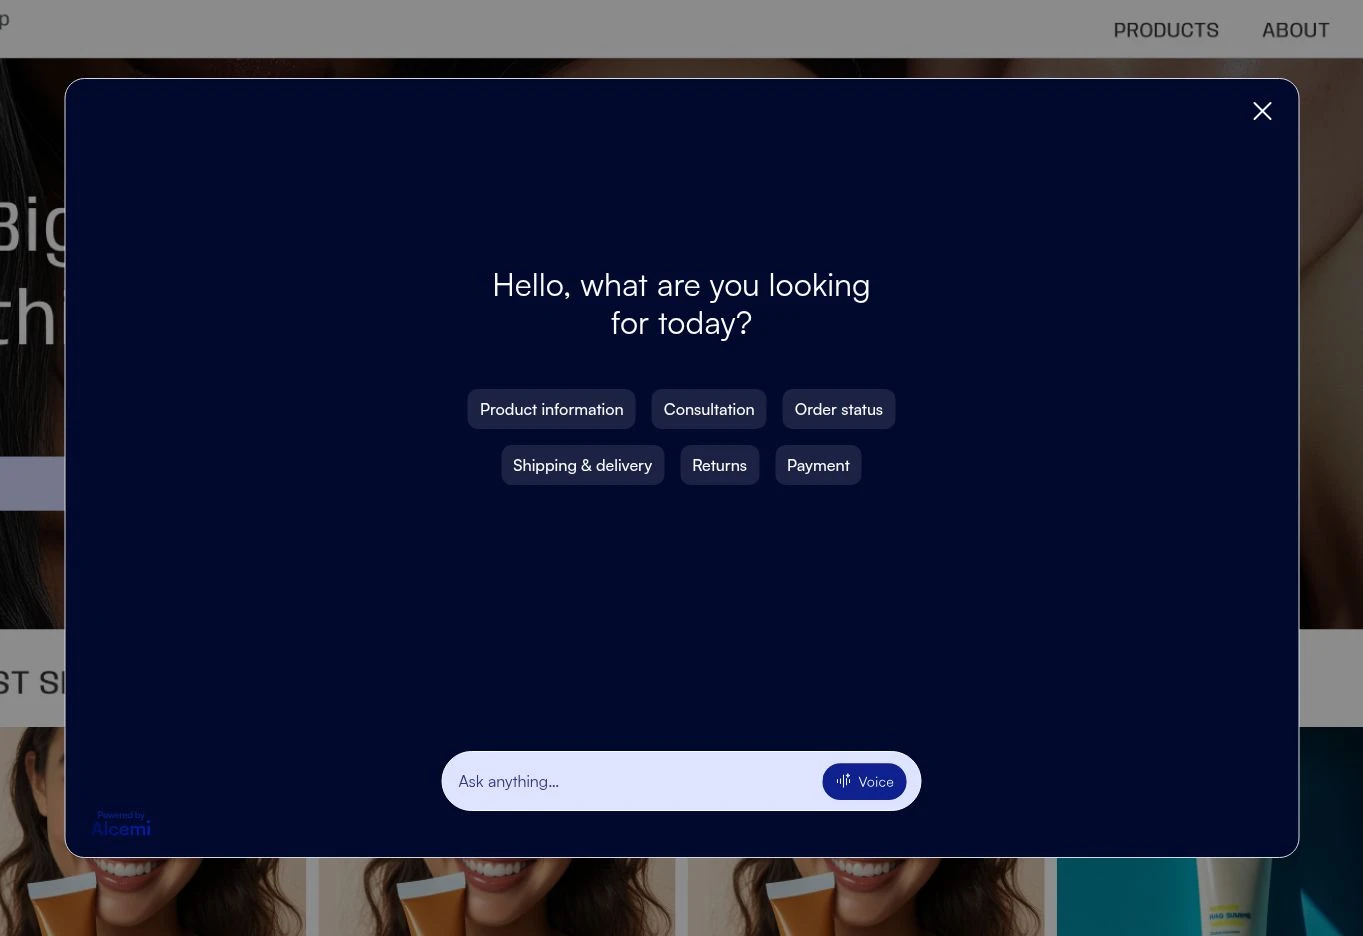
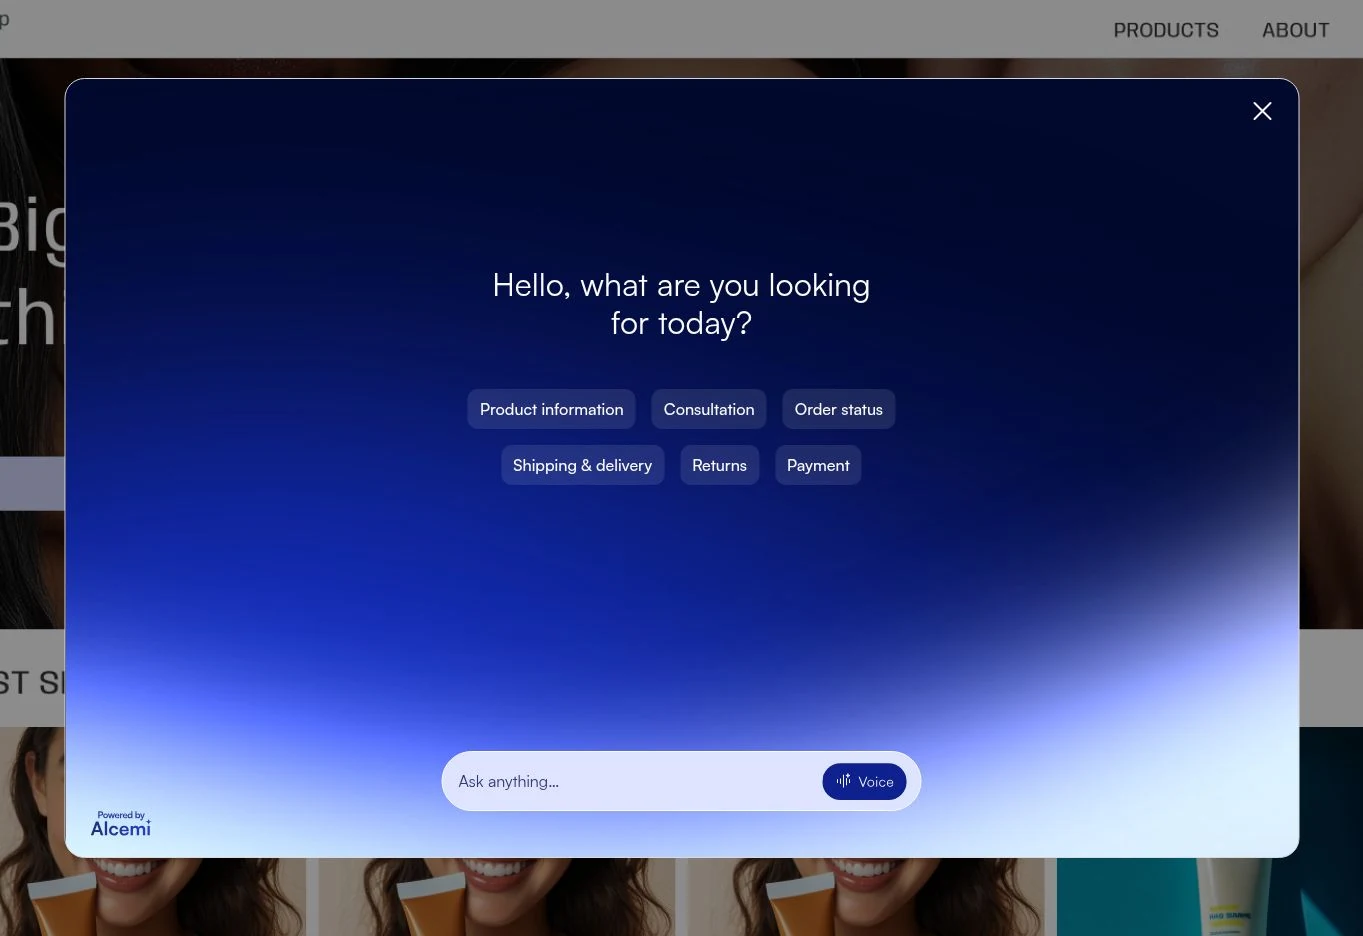
Replace portfolio popup with project pages and fix mobile hero navigation

diff --git a/src/styles/reference.css b/src/styles/reference.css
@@ -137,15 +137,6 @@ body:has(.nav-overlay.open) .site-footer :focus-visible { outline-color: white; 
 .pf-links a { text-decoration: underline; text-underline-offset: 4px; }
 .pf-card:hover { border-color: #111; }
 .pf-img { width: 100%; height: 100%; object-fit: cover; object-position: top; }
-.portfolio-dialog { position: fixed; inset: 0; width: min(1100px,94vw); max-height: 94svh; padding: 48px 24px 24px; background: #111; color: white; border: 0; overflow: auto; }
-.portfolio-dialog::backdrop { background: rgba(0,0,0,.85); }
-.portfolio-dialog figure { margin: 0; }
-.dialog-img { max-height: 70svh; width: 100%; object-fit: contain; }
-.portfolio-dialog figcaption { margin-top: 16px; text-align: center; }
-.pf-close { position: absolute; top: 4px; right: 8px; width: 40px; height: 40px; border: 0; background: transparent; color: white; font-size: 28px; cursor: pointer; }
-.dialog-controls { display: flex; align-items: center; justify-content: center; gap: 12px; margin-top: 20px; }
-.dialog-controls button { border: 1px solid #777; background: transparent; color: white; padding: 8px 14px; cursor: pointer; }
-.portfolio-dialog :focus-visible { outline-color: white; }
 .privacy-grid { max-width: 70ch; padding-left: 20px; }
 .privacy-body h2 { font-size: 24px; margin-top: 30px; }
 .privacy-body a { text-decoration: underline; }
@@ -235,10 +226,6 @@ body:has(.nav-overlay.open) .site-footer :focus-visible { outline-color: white; 
   .pf-card { aspect-ratio: 3 / 2; }
   .pf-details h2 { font-size: 26px; }
   .pf-links a { min-height: 44px; display: inline-flex; align-items: center; }
-  .portfolio-dialog { padding: 48px 16px 20px; max-height: calc(100svh - 24px); }
-  .dialog-img { max-height: 50svh; }
-  .dialog-controls { gap: 8px; font-size: 13px; }
-  .dialog-controls button { min-height: 44px; }
   .cookie-inner { align-items: stretch; flex-direction: column; gap: 12px; }
 }
 @media(max-width:640px) and (max-height:500px) {
@@ -266,7 +253,7 @@ body:has(.nav-overlay.open) .site-footer :focus-visible { outline-color: white; 
 @media(max-width:1024px) {
   :root { --footer-h: 70px; }
   .site-header.on-home:not(.menu-open) { background: transparent; }
-  .hero { display: block; height: 100svh; min-height: 720px; padding: 0; }
+  .hero { display: block; height: 100svh; height: 100dvh; min-height: 0; padding: 0; }
   .hero-media-wrap { position: absolute; inset: 0; width: 100%; height: 100%; overflow: hidden; }
   .hero-media-wrap picture { display: block; width: 100%; height: 100%; }
   .hero-media { position: absolute; top: 0; right: -18vw; width: auto; height: 100%; max-width: none; mask-image: linear-gradient(to right,transparent,#000 30%); opacity: 1; }
@@ -299,11 +286,11 @@ body:has(.nav-overlay.open) .site-footer :focus-visible { outline-color: white; 
 /* Reserve room for the overlay without adding a white strip below the image. */
 @media(max-width:1024px) {
   main.container.section:has(.hero) { min-height: 0; }
-  .hero-contact { top: auto; bottom: calc(var(--footer-h) + 18px); }
+  .hero-contact { top: auto; bottom: calc(var(--home-footer-space, var(--footer-h)) + 18px); }
+  .hero-text { top: auto; bottom: calc(var(--home-footer-space, var(--footer-h)) + 94px); }
 }
 @media(max-width:1024px) and (max-height:780px) {
-  .hero { min-height: 780px; }
-  .hero-text { top: 62%; }
+  .hero-text { top: auto; }
   .hero-title { font-size: 23px; }
 }
 
@@ -326,3 +313,41 @@ body:has(.nav-overlay.open) .site-footer :focus-visible { outline-color: white; 
 /* The page footer returns only after the menu layers have left the screen. */
 .site-footer { transition: opacity .18s ease; }
 body.menu-closing .site-footer { opacity: 0; pointer-events: none; transition: none; }
+
+/* Project pages share the site's white canvas, fine rules and light headings. */
+.project-page { padding: clamp(120px,16svh,170px) var(--edge) 110px; min-height: 100svh; }
+.project-back, .project-next, .pf-read-more { display: inline-flex; align-items: center; min-height: 44px; text-decoration: underline; text-underline-offset: 5px; font-size: 14px; }
+.project-heading { margin: 34px 0 32px; padding-left: 20px; border-left: 1px solid #111; }
+.project-kicker { font-size: 12px; letter-spacing: .12em; text-transform: uppercase; color: #666; margin-bottom: 12px; }
+.project-heading h1 { font-size: clamp(36px,5vw,72px); line-height: 1.06; margin-bottom: 16px; max-width: 18ch; }
+.project-lead { color: #555; font-size: clamp(18px,2vw,24px); max-width: 60ch; margin-bottom: 0; }
+.project-preview { margin: 0; }
+.project-preview img { width: 100%; height: auto; border: 1px solid #ddd; }
+.project-preview figcaption { color: #777; font-size: 12px; margin-top: 10px; }
+.project-information { display: grid; grid-template-columns: minmax(0,1fr) minmax(0,1.5fr); gap: 8vw; padding: 40px 20px 0; }
+.project-meta { border-left: 1px solid #111; padding-left: 20px; }
+.project-meta h2, .project-story h2 { font-size: 28px; margin-bottom: 16px; }
+.project-meta p { color: #555; }
+.project-story { font-size: 18px; max-width: 65ch; }
+.project-story p { color: #555; }
+.project-navigation { display: flex; justify-content: space-between; flex-wrap: wrap; gap: 12px 32px; border-top: 1px solid #bbb; margin-top: 64px; padding-top: 20px; }
+.pf-title-link:hover { text-decoration: underline; text-underline-offset: 5px; }
+.pf-links a, .pf-read-more { min-height: 44px; }
+@media(max-width:820px) {
+  .project-information { grid-template-columns: minmax(0,1fr); gap: 32px; padding: 32px 0 0; }
+  .project-story { font-size: 16px; }
+}
+@media(max-width:640px) {
+  .project-page { padding-top: 108px; padding-bottom: 48px; min-height: 0; }
+  .project-heading { padding-left: 10px; margin-top: 24px; }
+  .project-heading h1 { font-size: clamp(32px,9vw,46px); overflow-wrap: anywhere; }
+  .project-lead { font-size: 18px; }
+  .project-navigation { margin-top: 40px; }
+}
+@media(max-width:1024px) and (max-height:520px) {
+  .hero-title { font-size: 18px; }
+  .hero-text { bottom: calc(var(--home-footer-space, var(--footer-h)) + 74px); }
+  .hero-title-wrap::before { height: 88px; }
+  .hero-dots { padding-top: 10px; }
+  .hero-contact { bottom: calc(var(--home-footer-space, var(--footer-h)) + 10px); }
+}

diff --git a/src/components/PortfolioGrid.tsx b/src/components/PortfolioGrid.tsx
@@ -1,46 +1,20 @@
-import { useEffect, useRef, useState } from "react";
+import { Link } from "react-router-dom";
 import { useTranslation } from "react-i18next";
 
 export type PortfolioItem = { id: string; title: string; category: string; img: string; link?: string | null; demo?: string; copyKey?: string; linkLabel?: string };
 
 export default function PortfolioGrid({ items = [] as PortfolioItem[] }) {
   const { t } = useTranslation();
-  const [openIdx, setOpenIdx] = useState<number | null>(null);
-  const dialog = useRef<HTMLDialogElement>(null);
-  const opener = useRef<HTMLButtonElement | null>(null);
-  const isOpen = openIdx !== null;
-  const current = openIdx !== null ? items[openIdx] : null;
-  useEffect(() => {
-    if (!isOpen) return;
-    const modal = dialog.current;
-    modal?.showModal();
-    const previous = document.body.style.overflow;
-    document.body.style.overflow = "hidden";
-    const trigger = opener.current;
-    return () => { modal?.close(); document.body.style.overflow = previous; trigger?.focus(); };
-  }, [isOpen]);
-  const move = (direction: number) => setOpenIdx(index => index === null ? null : (index + direction + items.length) % items.length);
-  return <section className="pf">
-    <div className="pf-grid">
-      {items.map((item, index) => <article key={item.id} className="pf-project">
-        <button type="button" className="pf-card" aria-label={`${t("portfolio.open")} ${item.title}`} onClick={e => { opener.current = e.currentTarget; setOpenIdx(index); }}>
-          <img src={item.img} alt={item.title} loading="lazy" decoding="async" className="pf-img cover" />
-        </button>
-        <div className="pf-details">
-          <h2>{item.title}</h2>
-          {item.copyKey && <><p className="pf-role">{t(`portfolio.${item.copyKey}.role`)}</p><p>{t(`portfolio.${item.copyKey}.description`)}</p></>}
-          {item.demo && <p className="pf-note">{t("portfolio.previewNote")}</p>}
-          <div className="pf-links">
-            {item.link && <a href={item.link} target="_blank" rel="noopener noreferrer">{t(`portfolio.${item.linkLabel || "viewSite"}`)} ↗</a>}
-            {item.demo && <a href={item.demo} target="_blank" rel="noopener noreferrer">{t("portfolio.earlyDemo")} ↗</a>}
-          </div>
-        </div>
-      </article>)}
-    </div>
-    {current && <dialog ref={dialog} className="portfolio-dialog" aria-label={current.title} onCancel={() => setOpenIdx(null)} onClick={e => { if (e.target === e.currentTarget) setOpenIdx(null); }} onKeyDown={e => { if (e.key === "ArrowRight") move(1); if (e.key === "ArrowLeft") move(-1); }}>
-      <button className="pf-close" aria-label={t("portfolio.close")} onClick={() => setOpenIdx(null)}>×</button>
-      <figure><img src={current.img} alt={current.title} className="dialog-img" /><figcaption>{current.title}{current.link && <a href={current.link} target="_blank" rel="noopener noreferrer"> {t(`portfolio.${current.linkLabel || "viewSite"}`)} ↗</a>}{current.copyKey && <p>{t(`portfolio.${current.copyKey}.role`)}</p>}{current.demo && <><p className="pf-note">{t("portfolio.previewNote")}</p><a href={current.demo} target="_blank" rel="noopener noreferrer">{t("portfolio.earlyDemo")} ↗</a></>}</figcaption></figure>
-      {items.length > 1 && <div className="dialog-controls"><button onClick={() => move(-1)}>{t("portfolio.prev")}</button><span>{(openIdx ?? 0) + 1} / {items.length}</span><button onClick={() => move(1)}>{t("portfolio.next")}</button></div>}
-    </dialog>}
-  </section>;
+  return <div className="pf-grid">
+    {items.map(item => <article key={item.id} className="pf-project">
+      <Link className="pf-card" to={`/portfolio/${item.id}`} aria-label={`${t("portfolio.open")} ${item.title}`}>
+        <img src={item.img} alt={item.title} loading="lazy" decoding="async" className="pf-img cover" />
+      </Link>
+      <div className="pf-details">
+        <h2><Link className="pf-title-link" to={`/portfolio/${item.id}`}>{item.title}</Link></h2>
+        {item.copyKey && <><p className="pf-role">{t(`portfolio.${item.copyKey}.role`)}</p><p>{t(`portfolio.${item.copyKey}.description`)}</p></>}
+        <Link className="pf-read-more" to={`/portfolio/${item.id}`}>{t("portfolio.readMore")}</Link>
+      </div>
+    </article>)}
+  </div>;
 }

diff --git a/src/pages/Project.tsx b/src/pages/Project.tsx
@@ -1,0 +1,44 @@
+import { Link, useParams } from "react-router-dom";
+import { useTranslation } from "react-i18next";
+import data from "../data/portfolio.json";
+import NotFound from "./NotFound";
+
+export default function Project() {
+  const { projectId } = useParams();
+  const { t } = useTranslation();
+  const index = data.findIndex(project => project.id === projectId);
+  const project = data[index];
+  if (!project) return <NotFound />;
+  const next = data[(index + 1) % data.length];
+  return <article className="project-page full-bleed" aria-labelledby="project-title">
+    <Link className="project-back" to="/portfolio">{t("portfolio.back")}</Link>
+    <header className="project-heading">
+      <p className="project-kicker">{t(`portfolio.${project.copyKey}.role`)}</p>
+      <h1 id="project-title">{project.title}</h1>
+      <p className="project-lead">{t(`portfolio.${project.copyKey}.description`)}</p>
+    </header>
+    <figure className="project-preview">
+      <img src={project.img} alt={`${project.title} — ${project.demo ? "early shopping assistant interface" : "website preview"}`} fetchPriority="high" />
+      {project.demo && <figcaption>{t("portfolio.previewNote")}</figcaption>}
+    </figure>
+    <div className="project-information">
+      <aside className="project-meta">
+        <h2>{t("portfolio.myRole")}</h2>
+        <p>{t(`portfolio.${project.copyKey}.role`)}</p>
+        <div className="pf-links">
+          <a href={project.link} target="_blank" rel="noopener noreferrer">{t(`portfolio.${project.linkLabel}`)}</a>
+          {project.demo && <a href={project.demo} target="_blank" rel="noopener noreferrer">{t("portfolio.earlyDemo")}</a>}
+        </div>
+      </aside>
+      <section className="project-story">
+        <h2>{t("portfolio.aboutProject")}</h2>
+        <p>{t(`portfolio.${project.copyKey}.overview`)}</p>
+        <p>{t(`portfolio.${project.copyKey}.contribution`)}</p>
+      </section>
+    </div>
+    <nav className="project-navigation" aria-label="Project navigation">
+      <Link className="project-back" to="/portfolio">{t("portfolio.back")}</Link>
+      <Link className="project-next" to={`/portfolio/${next.id}`}>{t("portfolio.nextProject")}: {next.title}</Link>
+    </nav>
+  </article>;
+}

diff --git a/src/App.tsx b/src/App.tsx
@@ -7,6 +7,8 @@ import Home from "./pages/Home";
 import Profile from "./pages/Profile";
 import Services from "./pages/Services";
 import Portfolio from "./pages/Portfolio";
+import Project from "./pages/Project";
+import projects from "./data/portfolio.json";
 import Contacts from "./pages/Contacts";
 import Privacy from "./pages/Privacy";
 import NotFound from "./pages/NotFound";
@@ -22,7 +24,8 @@ function RouteEffects() {
   useEffect(() => { window.scrollTo(0, 0); }, [pathname]);
   useEffect(() => {
     const page = pathname.slice(1);
-    document.title = pathname === "/" ? "Arsenij.dev | Shopify technical support & theme fixes" : `${t(`nav.${page}`, { defaultValue: page === "privacy" ? t("privacy.title") : "404" })} | Arsenij.dev`;
+    const project = projects.find(item => pathname === `/portfolio/${item.id}`);
+    document.title = project ? `${project.title} | Arsenij.dev` : pathname === "/" ? "Arsenij.dev | Shopify technical support & theme fixes" : `${t(`nav.${page}`, { defaultValue: page === "privacy" ? t("privacy.title") : "404" })} | Arsenij.dev`;
   }, [pathname, t, i18n.resolvedLanguage]);
   return null;
 }
@@ -40,6 +43,7 @@ export default function App() {
           <Route path="/profile" element={<Profile />} />
           <Route path="/services" element={<Services />} />
           <Route path="/portfolio" element={<Portfolio />} />
+          <Route path="/portfolio/:projectId" element={<Project />} />
           <Route path="/contacts" element={<Contacts />} />
           <Route path="/privacy" element={<Privacy />} />
 

diff --git a/src/components/Footer.tsx b/src/components/Footer.tsx
@@ -1,12 +1,23 @@
+import { useLayoutEffect, useRef } from "react";
 import { Link } from "react-router-dom";
 import { useTranslation } from "react-i18next";
 
 export default function Footer() {
   const { t } = useTranslation();
+  const footer = useRef<HTMLElement>(null);
+  useLayoutEffect(() => {
+    const element = footer.current;
+    if (!element) return;
+    const measure = () => document.documentElement.style.setProperty("--home-footer-space", `${element.getBoundingClientRect().height}px`);
+    measure();
+    const observer = new ResizeObserver(measure);
+    observer.observe(element);
+    return () => { observer.disconnect(); document.documentElement.style.removeProperty("--home-footer-space"); };
+  }, []);
   const year = new Date().getFullYear();
 
   return (
-    <footer className="site-footer">
+    <footer ref={footer} className="site-footer">
       <div className="footer-inner container">
         <div className="footer-left">
           <span>

diff --git a/src/components/header.tsx b/src/components/header.tsx
@@ -36,7 +36,7 @@ export default function Header() {
     const previous = document.body.style.overflow;
     document.body.style.overflow = "hidden";
     const button = trigger.current;
-    overlay.current?.querySelector<HTMLElement>("nav a")?.focus();
+    button?.focus();
     const onKey = (e: KeyboardEvent) => {
       if (e.key === "Escape") setOpen(false);
       if (e.key !== "Tab") return;
